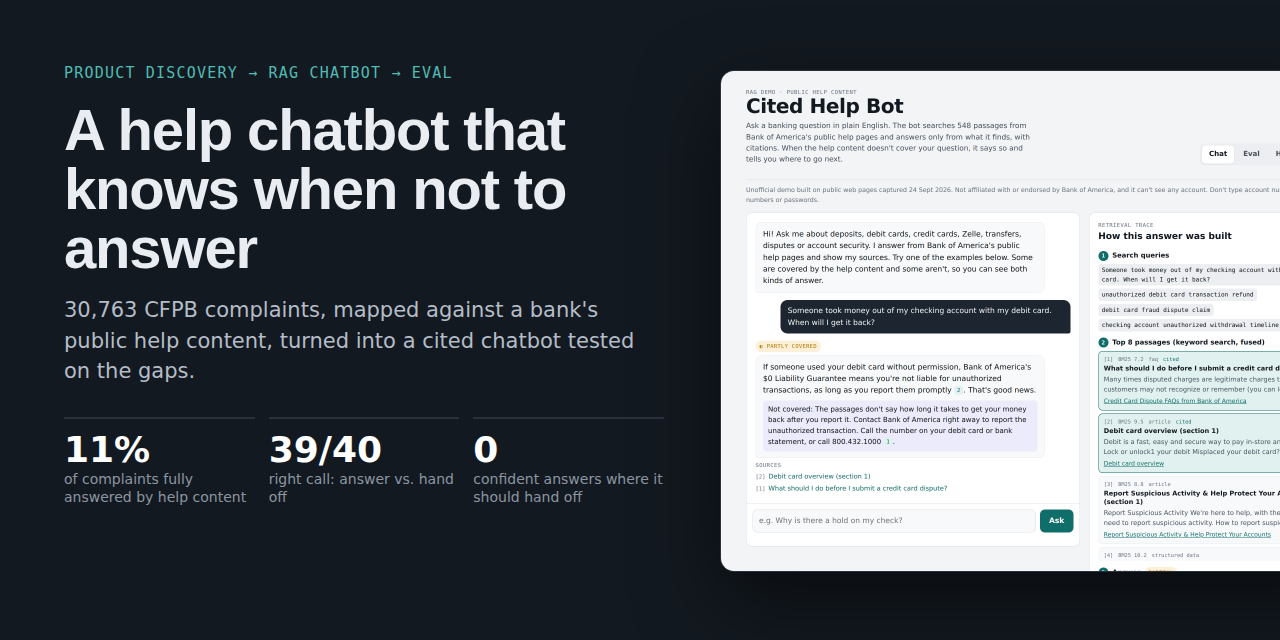
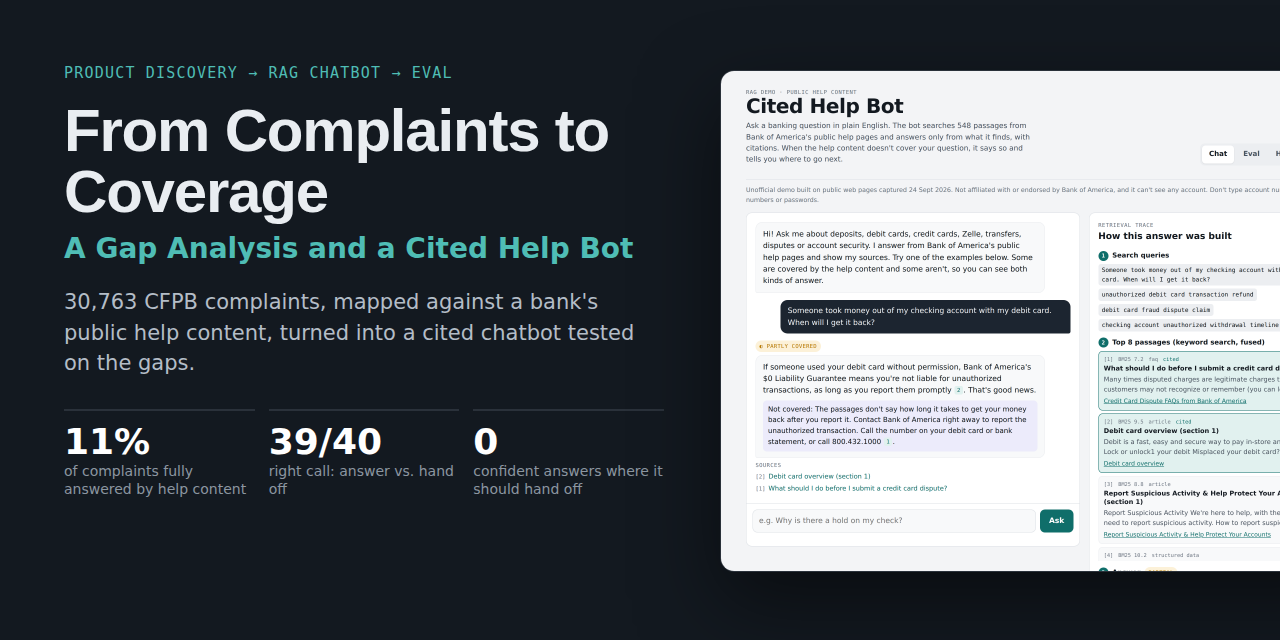
README title: From Complaints to Coverage

Changed region(s): [[0.0312, 0.1562, 0.5, 0.5938], [0.0312, 0.625, 0.5312, 0.7812]]

diff --git a/README.md b/README.md
@@ -1,8 +1,9 @@
 <div align="center">
 
-<img src="docs/images/banner.png" alt="A help chatbot that knows when not to answer" width="100%">
+<img src="docs/images/banner.png" alt="From Complaints to Coverage: A Gap Analysis and a Cited Help Bot" width="100%">
 
-# A help chatbot that knows when not to answer
+# From Complaints to Coverage
+### A Gap Analysis and a Cited Help Bot
 
 **Product discovery → RAG chatbot → eval, built on public data**
 
